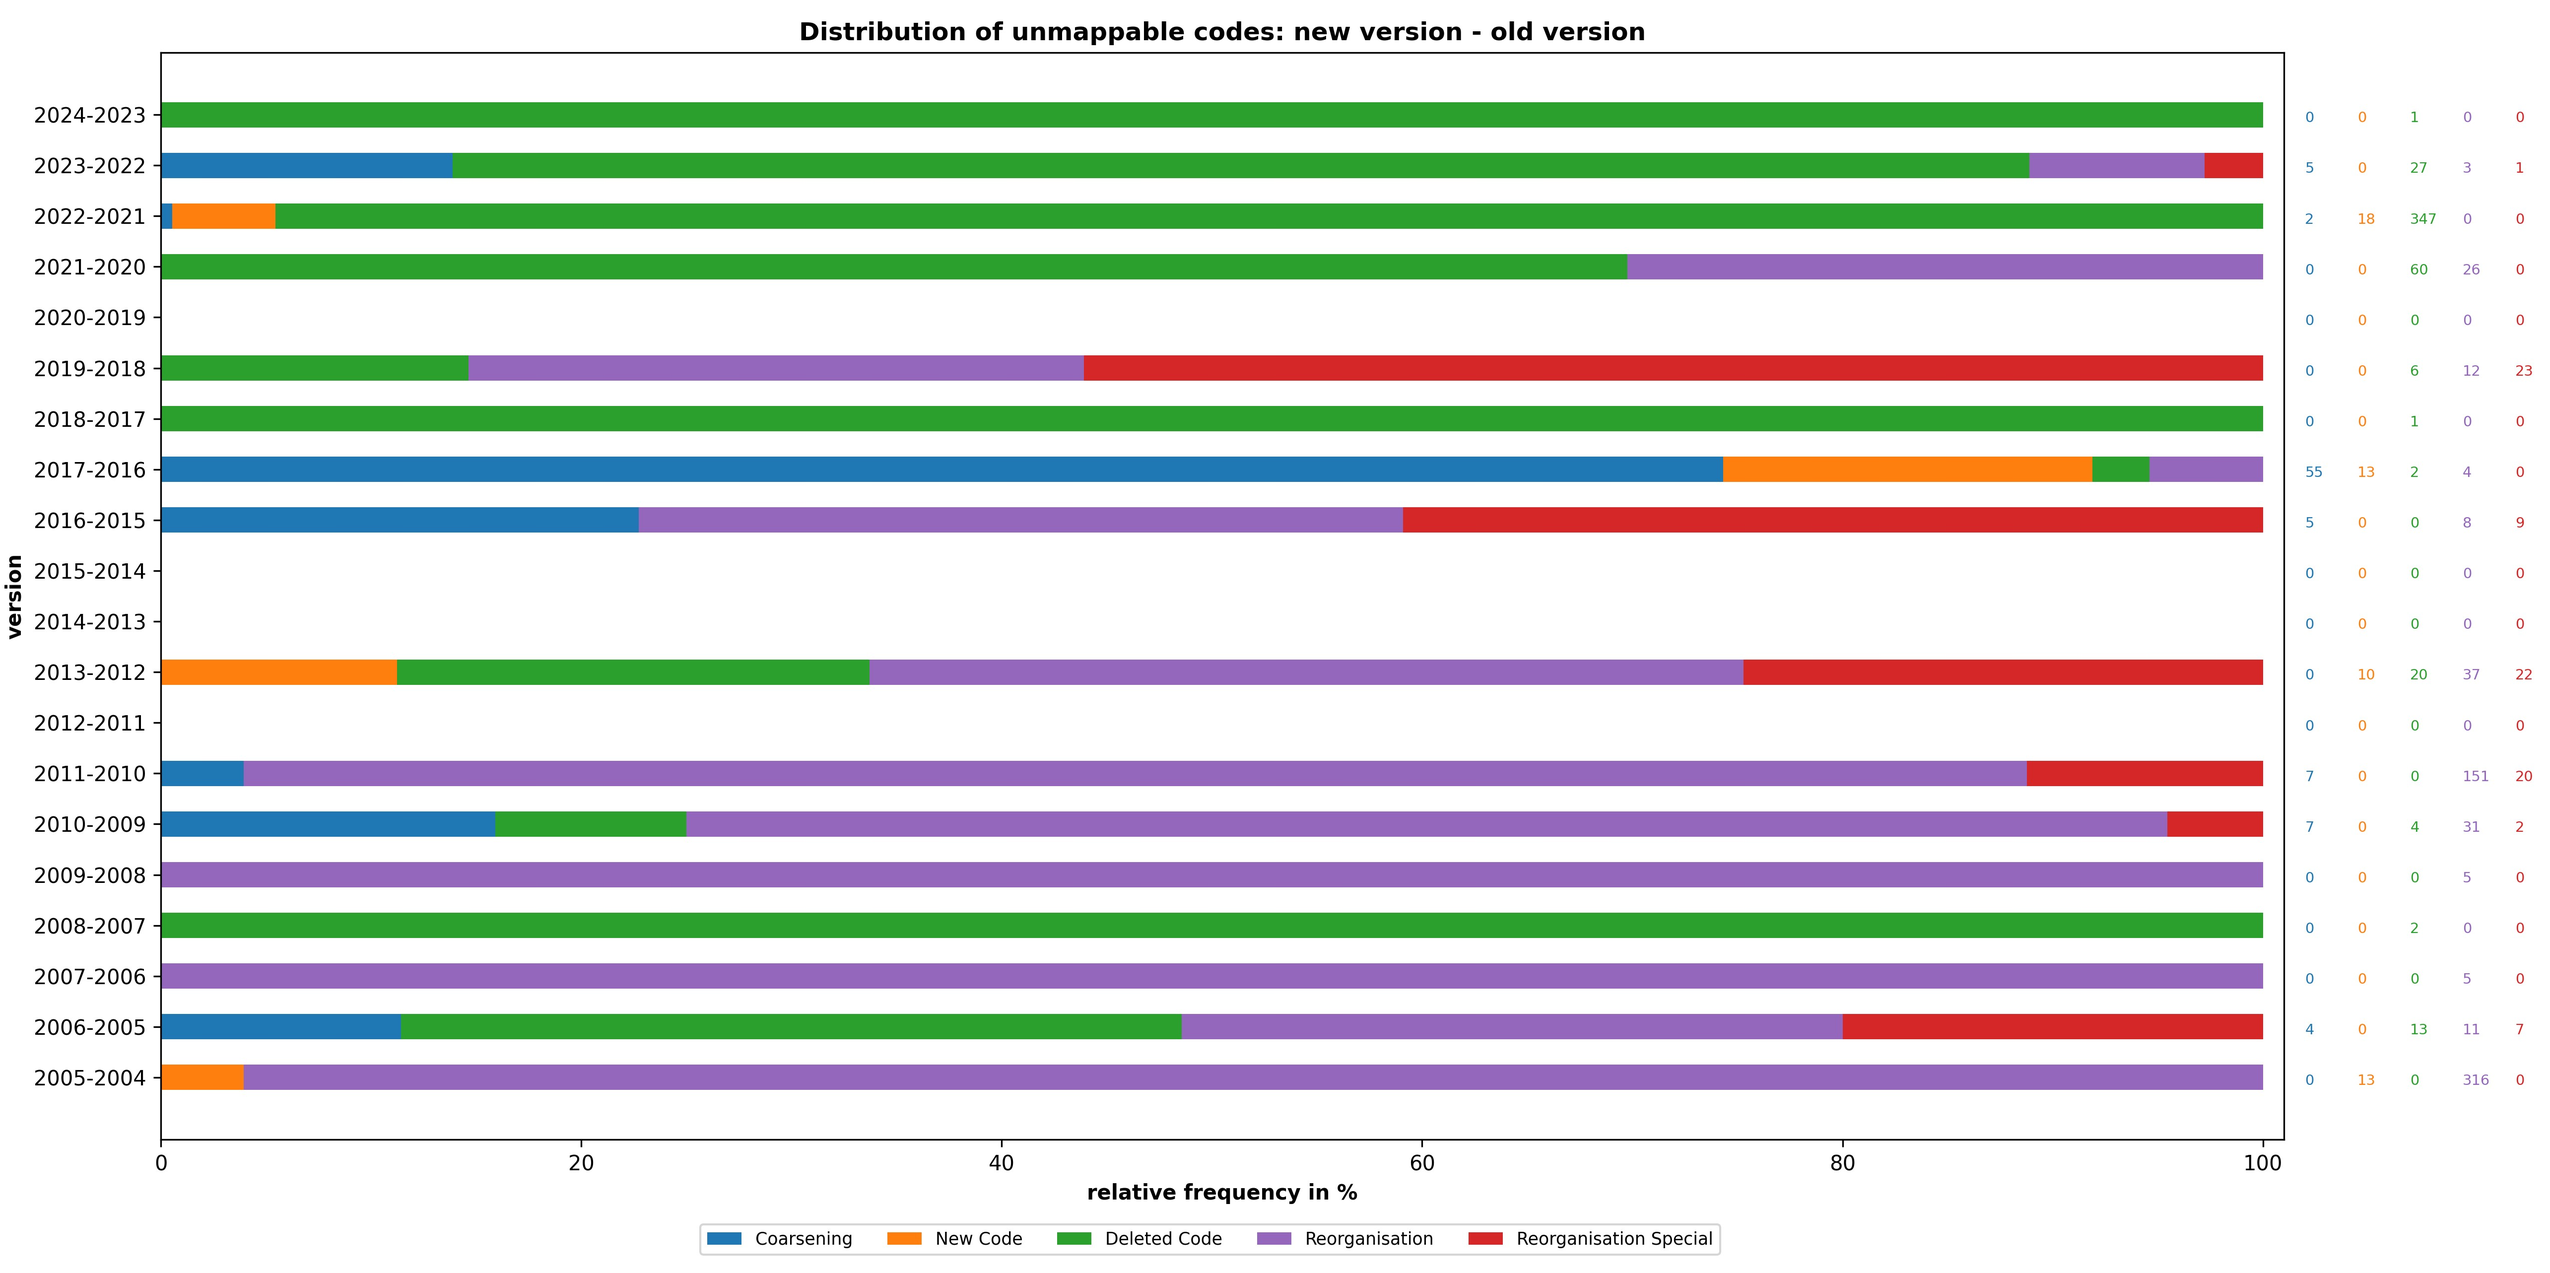
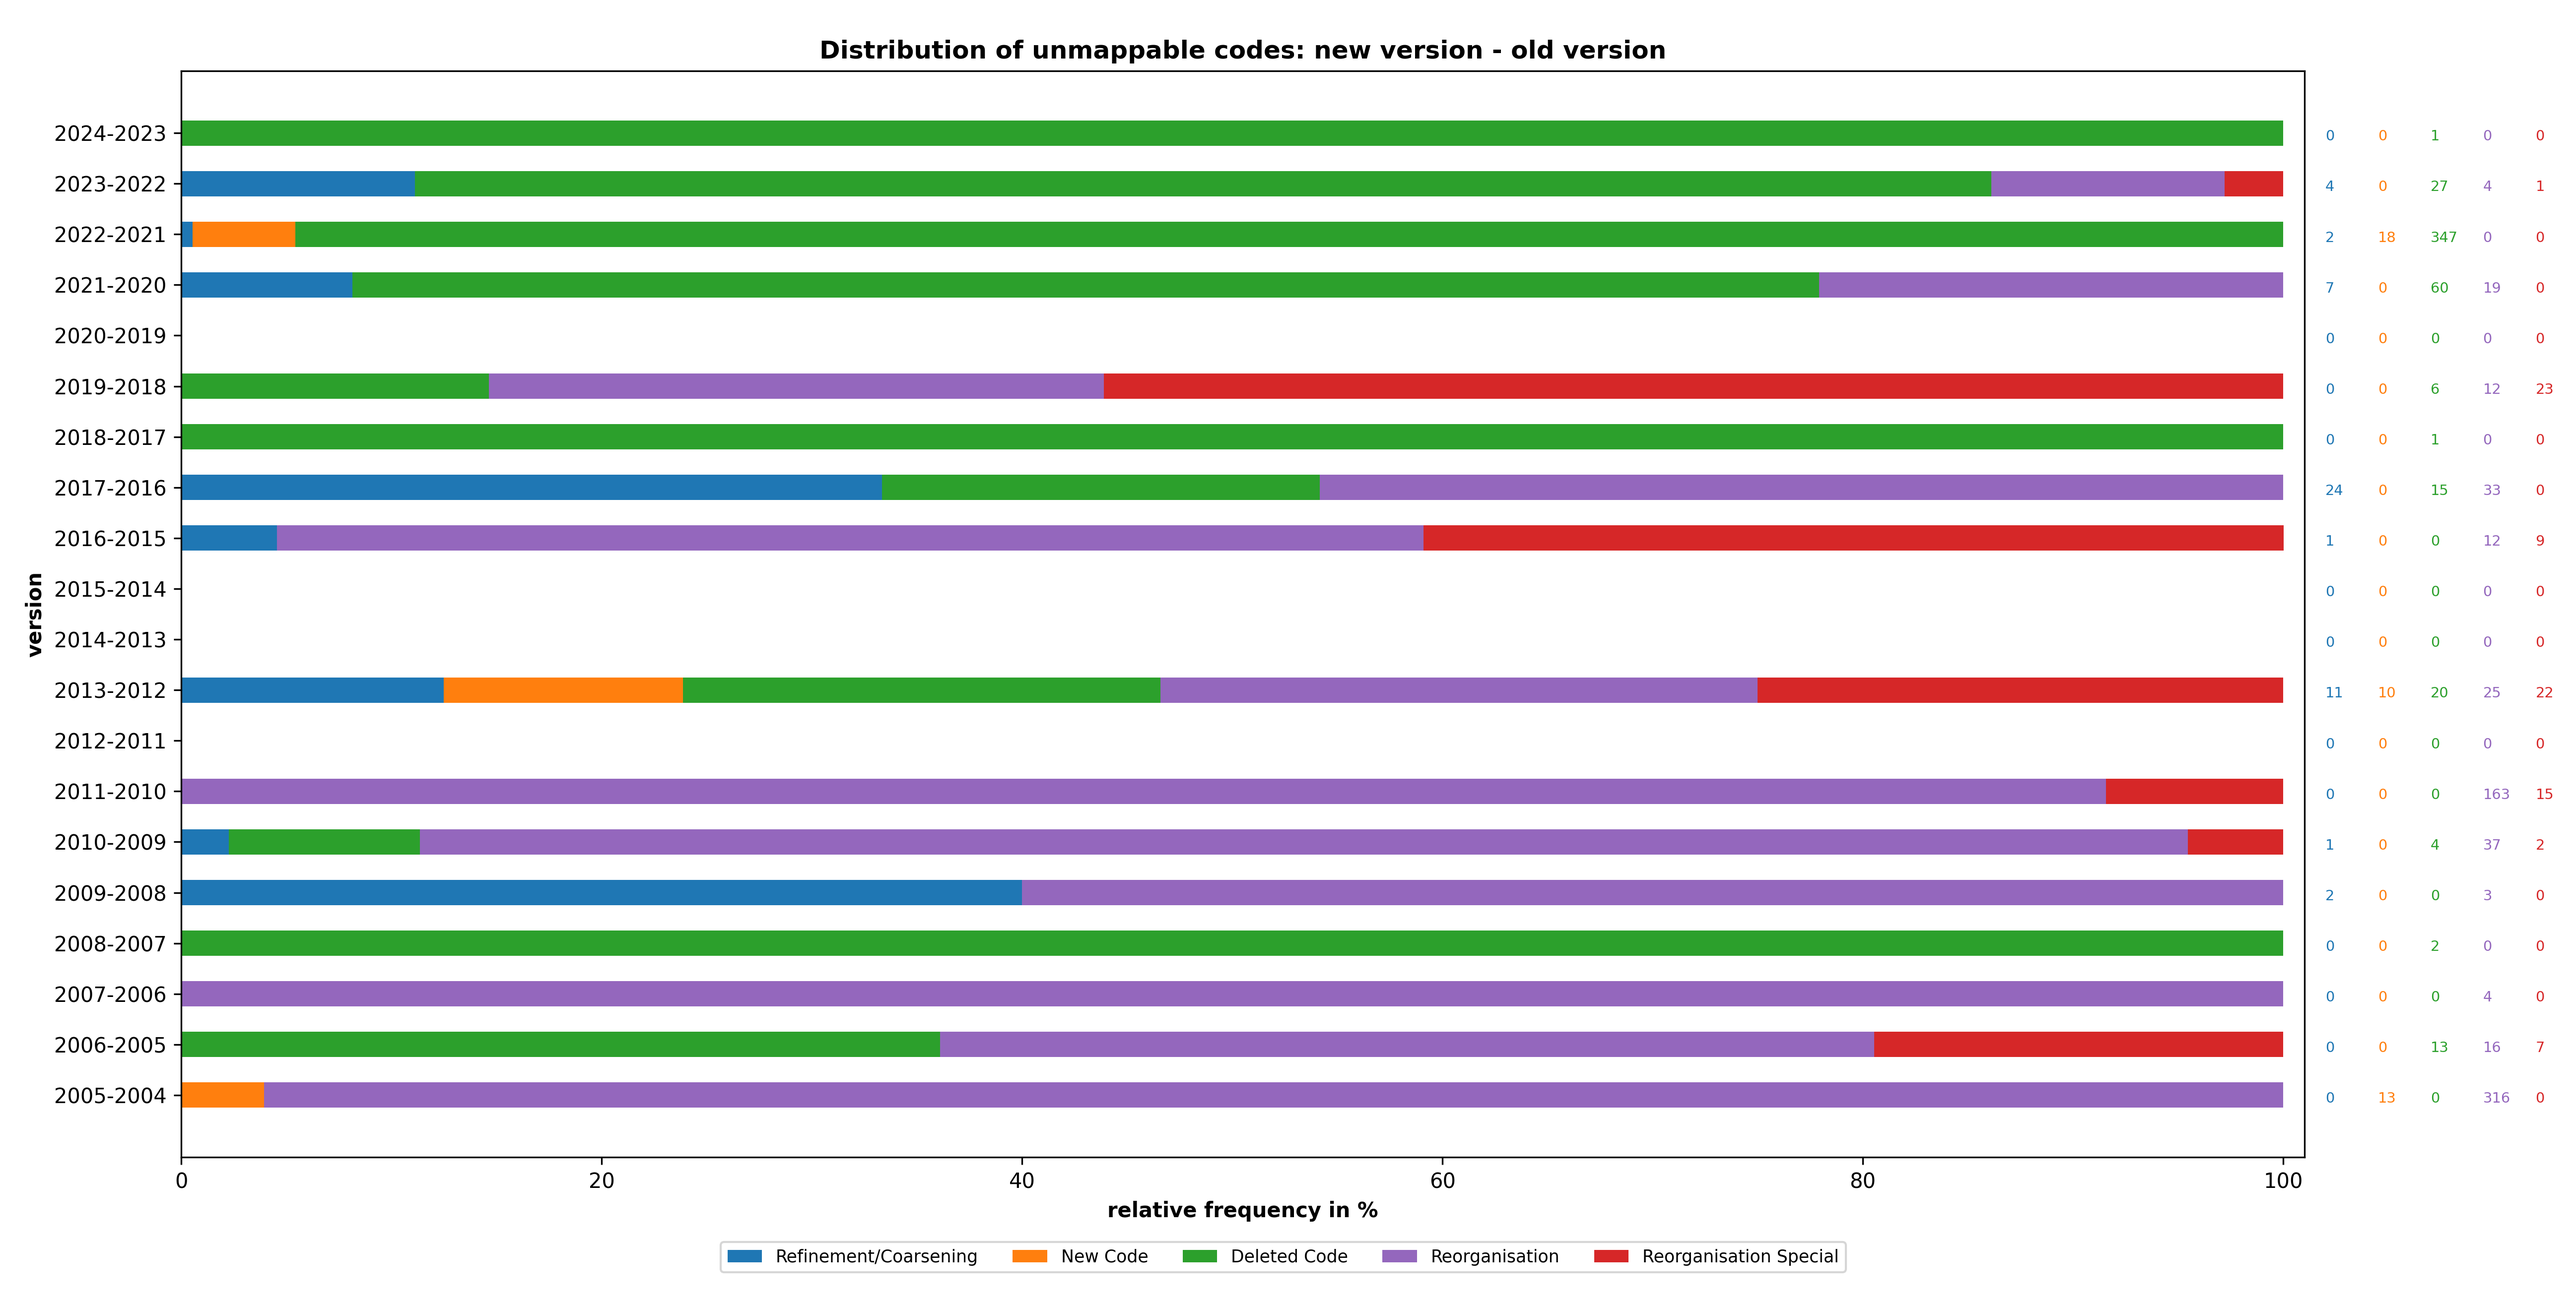
update github page

diff --git a/README.md b/README.md
@@ -43,11 +43,11 @@ On average across the ICD-10-GM versions of 2004 and 2024, <font color="#FF7F0E"
 The following five causes for a non-automatic transition were identified:
 <table style="margin-left: auto; margin-right: auto;  margin-bottom: 30px">
     <tr><th> <p style="margin-bottom:-5px">Cause</p> </th><th> <p style="margin-bottom:-5px">Example</p> </th><th> <p style="margin-bottom:-5px">Frequency</p> </th></tr>
-    <tr><td> <p style="margin-bottom:-5px"><font color="#1F77B4">&#9632;</font> Refinement</p> </td><td> <p style="margin-bottom:-5px">K20 → K20.1</p> </td><td> <p align="right" style="margin-bottom:-5px">48.48 %</p> </td></tr>
-    <tr><td> <p style="margin-bottom:-5px"><font color="#FF7F0E">&#9632;</font> New Codes</p> </td><td> <p style="margin-bottom:-5px">UNDEF → U69.75</p> </td><td> <p align="right" style="margin-bottom:-5px">12.50 %</p> </td></tr>
-    <tr><td> <p style="margin-bottom:-5px"><font color="#2CA02C">&#9632;</font> Deleted Codes</p> </td><td> <p style="margin-bottom:-5px">U11.0 → UNDEF</p> </td><td> <p align="right" style="margin-bottom:-5px">0.97 %</p> </td></tr>
-    <tr><td> <p style="margin-bottom:-5px"><font color="#9467BD">&#9632;</font> Reorganization</p> </td><td> <p style="margin-bottom:-5px">T86.88 → T86.84</p> </td><td> <p align="right" style="margin-bottom:-5px">33.51 %</p> </td></tr>
-    <tr><td> <p style="margin-bottom:-5px"><font color="#D62728">&#9632;</font> Reorganization with chapter change</p> </td><td> <p style="margin-bottom:-5px">T66 → K20.1</p> </td><td> <p align="right" style="margin-bottom:-5px">4.54 %</p> </td></tr>
+    <tr><td> <p style="margin-bottom:-5px"><font color="#1F77B4">&#9632;</font> Refinement/Coarsening</p> </td><td> <p style="margin-bottom:-5px">K20 → K20.1</p> </td><td> <p align="right" style="margin-bottom:-5px">30.30 %</p> </td></tr>
+    <tr><td> <p style="margin-bottom:-5px"><font color="#FF7F0E">&#9632;</font> New Codes</p> </td><td> <p style="margin-bottom:-5px">UNDEF → U69.75</p> </td><td> <p align="right" style="margin-bottom:-5px">20.48 %</p> </td></tr>
+    <tr><td> <p style="margin-bottom:-5px"><font color="#2CA02C">&#9632;</font> Deleted Codes</p> </td><td> <p style="margin-bottom:-5px">U11.0 → UNDEF</p> </td><td> <p align="right" style="margin-bottom:-5px">1.85 %</p> </td></tr>
+    <tr><td> <p style="margin-bottom:-5px"><font color="#9467BD">&#9632;</font> Reorganization</p> </td><td> <p style="margin-bottom:-5px">T86.88 → T86.84</p> </td><td> <p align="right" style="margin-bottom:-5px">41.56 %</p> </td></tr>
+    <tr><td> <p style="margin-bottom:-5px"><font color="#D62728">&#9632;</font> Reorganization with chapter change</p> </td><td> <p style="margin-bottom:-5px">T66 → K20.1</p> </td><td> <p align="right" style="margin-bottom:-5px">3.82 %</p> </td></tr>
 </table>
 
 The causes and their frequencies per crosswalk table are as follows:
@@ -74,11 +74,11 @@ On average across the ICD-10-GM versions of 2004 and 2024, <font color="#FF7F0E"
 The following five causes for a non-automatic transition were identified:
 <table style="margin-left: auto; margin-right: auto;  margin-bottom: 30px">
     <tr><th> <p style="margin-bottom:-5px">Cause</p> </th><th> <p style="margin-bottom:-5px">Example</p> </th><th> <p style="margin-bottom:-5px">Frequency</p> </th></tr>
-    <tr><td> <p style="margin-bottom:-5px"><font color="#1F77B4">&#9632;</font> Coarsening</p> </td><td> <p style="margin-bottom:-5px">K20.1 → K20</p> </td><td> <p align="right" style="margin-bottom:-5px">6.46 %</p> </td></tr>
-    <tr><td> <p style="margin-bottom:-5px"><font color="#FF7F0E">&#9632;</font> New Codes</p> </td><td> <p style="margin-bottom:-5px">UNDEF → U11.0</p> </td><td> <p align="right" style="margin-bottom:-5px">4.11 %</p> </td></tr>
-    <tr><td> <p style="margin-bottom:-5px"><font color="#2CA02C">&#9632;</font> Deleted Codes</p> </td><td> <p style="margin-bottom:-5px">U69.75 → UNDEF</p> </td><td> <p align="right" style="margin-bottom:-5px">36.73 %</p> </td></tr>
-    <tr><td> <p style="margin-bottom:-5px"><font color="#9467BD">&#9632;</font> Reorganization</p> </td><td> <p style="margin-bottom:-5px">T86.84 → T86.88 </p> </td><td> <p align="right" style="margin-bottom:-5px">46.31 %</p> </td></tr>
-    <tr><td> <p style="margin-bottom:-5px"><font color="#D62728">&#9632;</font> Reorganization with chapter change</p> </td><td> <p style="margin-bottom:-5px">K20.1 → T66</p> </td><td> <p align="right" style="margin-bottom:-5px">6.36 %</p> </td></tr>
+    <tr><td> <p style="margin-bottom:-5px"><font color="#1F77B4">&#9632;</font> Refinement/Coarsening</p> </td><td> <p style="margin-bottom:-5px">K20.1 → K20</p> </td><td> <p align="right" style="margin-bottom:-5px">3.96 %</p> </td></tr>
+    <tr><td> <p style="margin-bottom:-5px"><font color="#FF7F0E">&#9632;</font> New Codes</p> </td><td> <p style="margin-bottom:-5px">UNDEF → U11.0</p> </td><td> <p align="right" style="margin-bottom:-5px">3.13 %</p> </td></tr>
+    <tr><td> <p style="margin-bottom:-5px"><font color="#2CA02C">&#9632;</font> Deleted Codes</p> </td><td> <p style="margin-bottom:-5px">U69.75 → UNDEF</p> </td><td> <p align="right" style="margin-bottom:-5px">37.80 %</p> </td></tr>
+    <tr><td> <p style="margin-bottom:-5px"><font color="#9467BD">&#9632;</font> Reorganization</p> </td><td> <p style="margin-bottom:-5px">T86.84 → T86.88 </p> </td><td> <p align="right" style="margin-bottom:-5px">49.09 %</p> </td></tr>
+    <tr><td> <p style="margin-bottom:-5px"><font color="#D62728">&#9632;</font> Reorganization with chapter change</p> </td><td> <p style="margin-bottom:-5px">K20.1 → T66</p> </td><td> <p align="right" style="margin-bottom:-5px">6.02 %</p> </td></tr>
 </table>
 
 The causes and their frequencies per crosswalk table are as follows:
